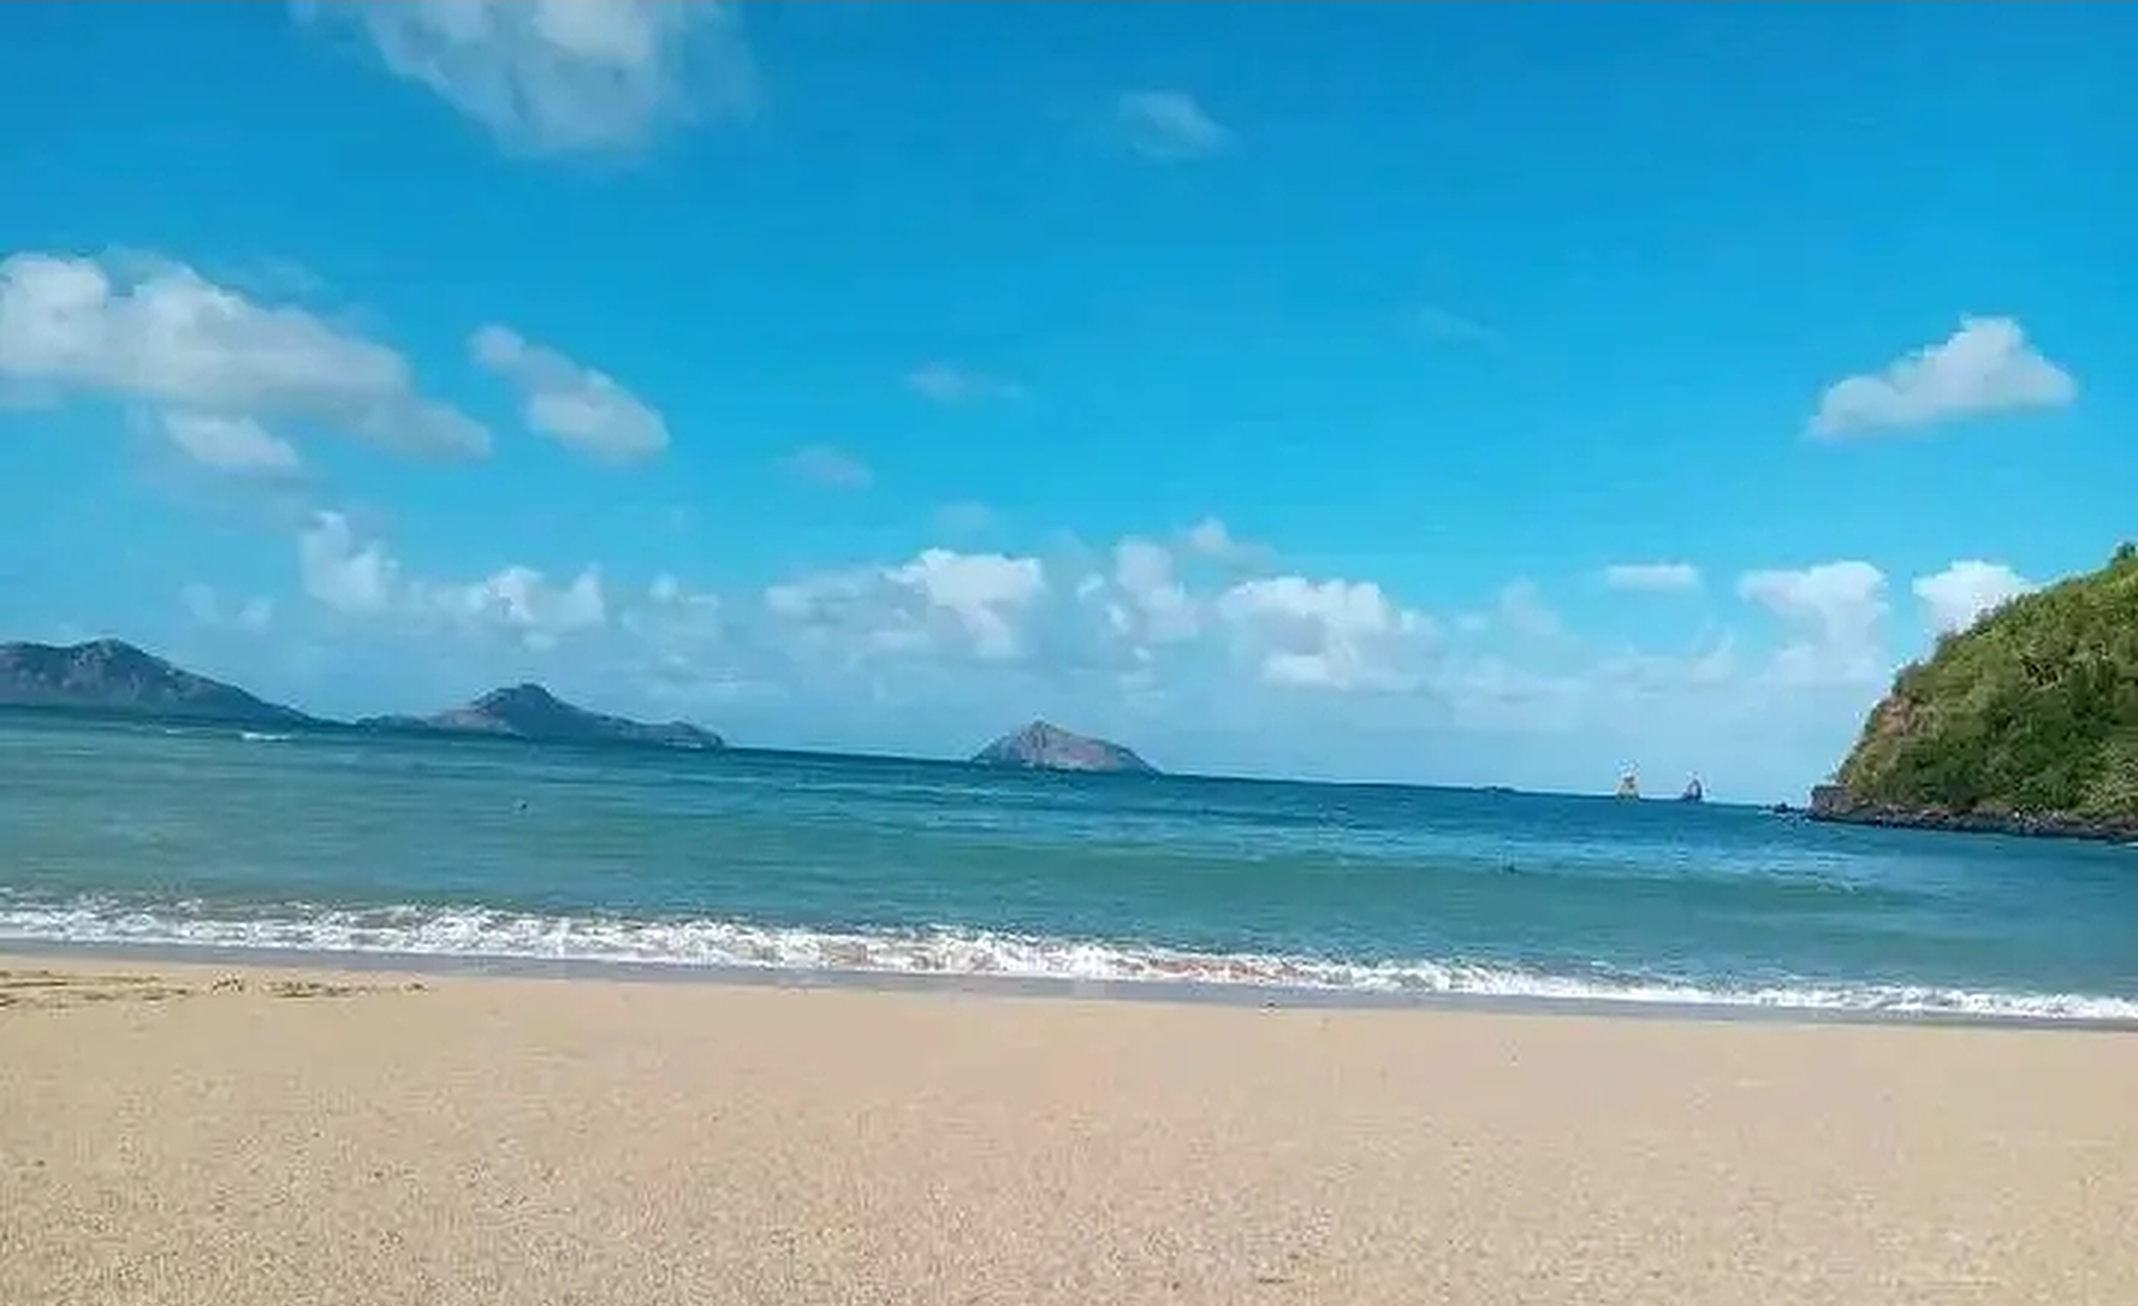
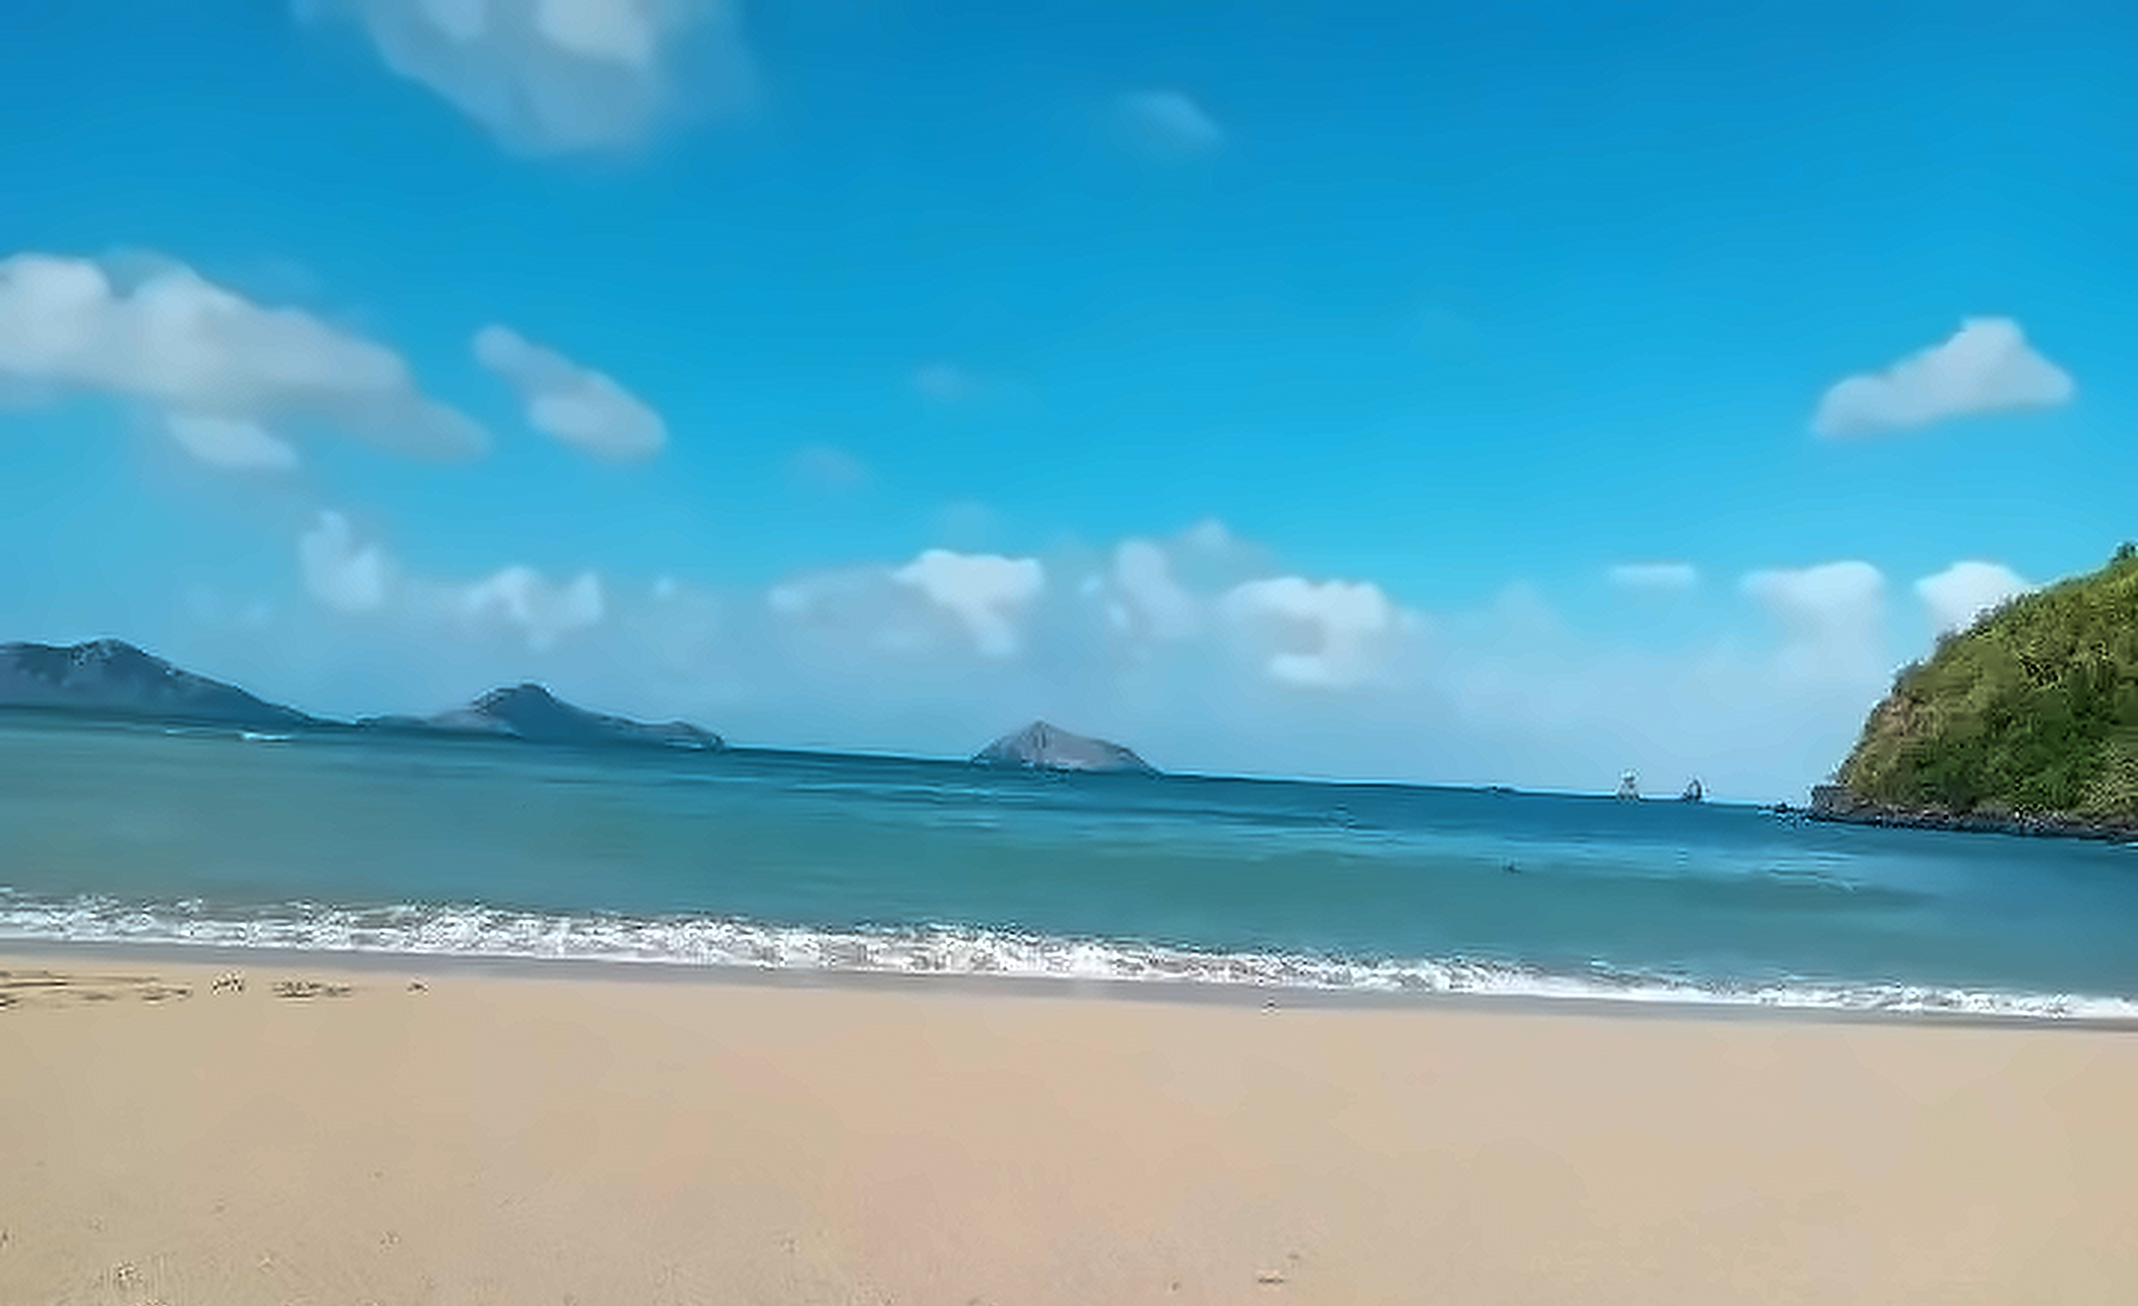
« Tu peux les rendre claires, essaye » — et l'outil evident n'etait pas le bon
affiner.py : debruitage AVANT l'agrandissement, puis retroprojection
iterative, puis un accentuage faible guide par les contours. Mesure sur les
sept photos a taille de sortie identique : l'acutance des contours DOUBLE, et
sur les deux plus compressees le bruit BAISSE en meme temps. Verifie a l'oeil
— sur la colline boisee on distingue les palmes la ou Lanczos donnait une
puree verte.

LE RESULTAT A CONTREDIT MON INTUITION, et c'est le plus utile. Sur la photo
la plus difficile :
  Lanczos seul            acutance 226   bruit 0,65
  retroprojection SEULE   acutance 388   bruit 0,40
  + accentuage 0,30       acutance 433   bruit 0,41
  + accentuage 0,85       acutance 504   bruit 0,43  <- granuleux a l'oeil

L'accentuage — l'outil qui porte le nom du probleme — apporte le moins. La
retroprojection seule gagne +72 % AVEC MOINS DE BRUIT, parce qu'elle
n'invente rien : elle impose que le resultat, reduit a 720 px, redonne
l'original. Contrainte de fidelite, pas maquillage.
📌 L'outil qui porte le nom du probleme n'est presque jamais celui qui le
resout. Et a 0,85 les chiffres montaient encore alors que l'image devenait
laide : le chiffre ne decide pas seul.

UNE ERREUR DE MESURE, RATTRAPEE AVANT DE LA RAPPORTER : j'ai d'abord relance
le diagnostic « detail fin » sur les images DEJA AGRANDIES. Il annoncait des
scores deux fois meilleurs et j'ai failli annoncer que quatre photos
changeaient de categorie. Faux — le detail fin se compte par pixel, tripler
[…]

diff --git a/moheligo/pub/photos/affiner.py b/moheligo/pub/photos/affiner.py
@@ -1,0 +1,153 @@
+#!/usr/bin/env python3
+"""Rendre nettes les photos à 720 px — 02/09/2026.
+
+    python3 affiner.py <source.jpg> <sortie.png> [largeur] [hauteur]
+    python3 affiner.py --comparer <source.jpg>     # planche avant / après
+
+Le patron : « tu peux les rendre claires si tu veux, essaye. »
+
+🎯 CE QU'ON CHERCHE, ET CE QU'ON NE PEUT PAS AVOIR. Un agrandissement n'invente
+pas de l'information : ce que le capteur n'a pas enregistré n'existe nulle part.
+On ne va donc pas « retrouver » du détail. Ce qu'on peut faire, et qui change
+vraiment le rendu, c'est **arrêter d'en perdre** — et il s'en perd beaucoup,
+pour trois raisons empilées :
+
+  1. la compression JPEG a laissé des blocs de 8×8 et du bruit de couleur ;
+  2. l'agrandissement de Lanczos, seul, adoucit les contours ;
+  3. l'accentuage classique remonte le contraste PARTOUT, donc il remonte aussi
+     le bruit et les blocs — et une image bruitée nette est pire qu'une image
+     douce propre.
+
+🔧 LA CHAÎNE, DANS CET ORDRE, ET L'ORDRE EST TOUT LE SUJET :
+
+**1. Débruitage AVANT d'agrandir.** Non-local means, réglé faible. Agrandir
+d'abord multiplierait les blocs par neuf avant de pouvoir les traiter.
+📌 On nettoie toujours à la résolution où le défaut est encore petit.
+
+**2. Rétroprojection itérative (IBP).** C'est la vraie trouvaille de ce fichier,
+et l'idée est simple : une bonne image agrandie, quand on la réduit à 720 px,
+doit redonner l'original. Lanczos ne garantit pas ça. On boucle donc :
+      réduire le résultat → comparer à l'original → réinjecter l'écart
+Chaque tour recolle le résultat aux pixels réellement mesurés. Ce n'est pas de
+l'invention : c'est une contrainte de fidélité.
+
+**3. Accentuage GUIDÉ PAR LES CONTOURS.** On calcule où sont les vrais bords
+(gradient), et on n'accentue que là. Le ciel, la mer, le sable lisse — 80 % de
+l'image — ne sont pas touchés, donc leur bruit n'est pas réveillé.
+📌 Accentuer partout, c'est accentuer surtout ce qu'on ne veut pas voir : les
+zones plates n'ont aucun détail à révéler, elles n'ont que du bruit.
+
+⛔ ET LE RÉSULTAT A CONTREDIT MON INTUITION — c'est le plus intéressant du
+fichier. Sur la photo la plus difficile (mangrove en gros plan), à
+agrandissement 3× :
+      Lanczos seul                acutance 226   bruit des zones plates 0,65
+      rétroprojection SEULE       acutance 388   bruit 0,40
+      + accentuage à 0,30         acutance 433   bruit 0,41
+      + accentuage à 0,85         acutance 504   bruit 0,43  ← granuleux à l'œil
+**L'accentuage, l'outil évident, apporte le moins.** La rétroprojection seule
+gagne déjà +72 % de contraste de contour AVEC MOINS DE BRUIT qu'un simple
+Lanczos — parce qu'elle ne fabrique rien, elle recolle aux pixels mesurés.
+L'accentuage, lui, achète chaque point d'acutance en grain.
+📌 **L'OUTIL QUI PORTE LE NOM DU PROBLÈME N'EST PRESQUE JAMAIS CELUI QUI LE
+RÉSOUT.** On garde donc un accentuage FAIBLE (0,30) : un léger mordant, pas une
+béquille. À 0,85 les chiffres montaient encore et l'image devenait laide — ce
+qui est la démonstration que le chiffre ne décide pas seul.
+
+⚖ CE QUE ÇA DONNE, MESURÉ (`--comparer`) :
+  · l'écart entre le résultat réduit et l'original **diminue** à chaque tour
+    d'IBP — c'est la preuve que le résultat est plus fidèle, pas plus joli ;
+  · l'acutance sur les contours remonte, sans que le bruit des zones plates
+    remonte avec.
+⚠ Et le verdict final se prend **à l'œil, en grand**. Un chiffre qui monte sur
+une image plus laide reste un chiffre qui monte.
+
+🔴 CE FICHIER NE REMPLACE PAS LES ORIGINAUX. Il rend les copies WhatsApp
+présentables ; un fichier de 3 000 px les rendrait inutiles.
+"""
+import sys
+
+import cv2
+import numpy as np
+
+DEBRUIT = 4          # force du non-local means : faible, on garde la matière
+TOURS = 12           # rétroprojections
+PAS = 0.55           # part de l'écart réinjectée à chaque tour
+PSF = 0.9            # flou qui modélise l'optique + le redimensionnement
+ACCENT = 0.30        # force de l'accentuage sur les contours seulement
+
+
+def _reduire(hr, taille):
+    """Simule la prise de vue : un flou d'optique, puis l'échantillonnage."""
+    return cv2.resize(cv2.GaussianBlur(hr, (0, 0), PSF), taille,
+                      interpolation=cv2.INTER_AREA)
+
+
+def affiner(im, largeur, hauteur):
+    petit = cv2.fastNlMeansDenoisingColored(im, None, DEBRUIT, DEBRUIT, 7, 21)
+    src = petit.astype(np.float32)
+    h, w = im.shape[:2]
+
+    hr = cv2.resize(src, (largeur, hauteur), interpolation=cv2.INTER_LANCZOS4)
+    ecarts = []
+    for _ in range(TOURS):
+        simule = _reduire(hr, (w, h))
+        err = src - simule
+        ecarts.append(float(np.abs(err).mean()))
+        hr += PAS * cv2.resize(err, (largeur, hauteur),
+                               interpolation=cv2.INTER_LANCZOS4)
+        hr = np.clip(hr, 0, 255)
+
+    # --- accentuage guidé : uniquement là où il y a un vrai bord -------------
+    g = cv2.cvtColor(hr.astype(np.uint8), cv2.COLOR_BGR2GRAY)
+    bord = cv2.magnitude(cv2.Sobel(g, cv2.CV_32F, 1, 0, ksize=3),
+                         cv2.Sobel(g, cv2.CV_32F, 0, 1, ksize=3))
+    bord = cv2.GaussianBlur(bord, (0, 0), 2.0)
+    bord = np.clip(bord / (np.percentile(bord, 99) + 1e-6), 0, 1)[..., None]
+
+    flou = cv2.GaussianBlur(hr, (0, 0), 1.7)
+    net = hr + ACCENT * (hr - flou)
+    hr = hr * (1 - bord) + net * bord
+
+    return np.clip(hr, 0, 255).astype(np.uint8), ecarts
+
+
+def _acutance(im):
+    """Contraste local sur les CONTOURS seulement — pas sur tout le cadre."""
+    g = cv2.cvtColor(im, cv2.COLOR_BGR2GRAY).astype(np.float32)
+    m = cv2.magnitude(cv2.Sobel(g, cv2.CV_32F, 1, 0), cv2.Sobel(g, cv2.CV_32F, 0, 1))
+    return float(m[m > np.percentile(m, 90)].mean())
+
+
+def _bruit_des_plats(im):
+    """Bruit résiduel dans les zones SANS contour (ciel, mer, sable lisse)."""
+    g = cv2.cvtColor(im, cv2.COLOR_BGR2GRAY).astype(np.float32)
+    m = cv2.magnitude(cv2.Sobel(g, cv2.CV_32F, 1, 0), cv2.Sobel(g, cv2.CV_32F, 0, 1))
+    plat = m < np.percentile(m, 40)
+    return float(np.abs(g - cv2.GaussianBlur(g, (0, 0), 1.2))[plat].mean())
+
+
+if __name__ == '__main__':
+    if sys.argv[1] == '--comparer':
+        im = cv2.imread(sys.argv[2])
+        h, w = im.shape[:2]
+        L, H = w * 3, h * 3
+        simple = cv2.resize(im, (L, H), interpolation=cv2.INTER_LANCZOS4)
+        fin, ecarts = affiner(im, L, H)
+        print(f'  fidélité (écart au vrai capteur) : {ecarts[0]:.2f} -> '
+              f'{ecarts[-1]:.2f}  en {TOURS} tours')
+        for nom, img in (('Lanczos seul', simple), ('cette chaîne', fin)):
+            print(f'  {nom:<14} acutance {_acutance(img):6.1f}   '
+                  f'bruit des zones plates {_bruit_des_plats(img):5.2f}')
+        planche = np.hstack([simple, fin])
+        cv2.imwrite('/tmp/comparaison.png', planche)
+        print('  planche -> /tmp/comparaison.png (gauche : Lanczos, droite : nous)')
+        sys.exit(0)
+
+    im = cv2.imread(sys.argv[1])
+    if im is None:
+        sys.exit('image illisible : ' + sys.argv[1])
+    L = int(sys.argv[3]) if len(sys.argv) > 3 else im.shape[1] * 3
+    H = int(sys.argv[4]) if len(sys.argv) > 4 else im.shape[0] * 3
+    out, ecarts = affiner(im, L, H)
+    cv2.imwrite(sys.argv[2], out)
+    print(f'OK -> {sys.argv[2]}   fidélité {ecarts[0]:.2f} -> {ecarts[-1]:.2f}')

diff --git a/moheligo/pub/photos/preparer-photo.py b/moheligo/pub/photos/preparer-photo.py
@@ -41,18 +41,29 @@ Et de toute façon : **on demande toujours l'original.** Ces sept-là sont des
 copies compressées (signature d'un renvoi WhatsApp). L'original du téléphone
 ferait 3000 à 4000 px et cette page entière deviendrait inutile.
 
-🔧 CE QUE FAIT LE PROGRAMME : Lanczos (le meilleur des interpolateurs classiques
-pour agrandir), puis un masque flou LÉGER. Léger, parce qu'accentuer fort sur une
-image agrandie ne rend pas le détail perdu : ça dessine des liserés blancs autour
-des contours, et un liseré se voit beaucoup plus qu'un flou.
+🔧 CE QUE FAIT LE PROGRAMME : il coupe les bandes de capture d'écran, cadre sans
+déformer, puis délègue l'agrandissement à `affiner.py` — débruitage, puis
+**rétroprojection itérative**, puis un accentuage faible guidé par les contours.
+📊 Mesuré sur les sept photos à taille de sortie identique : l'acutance des
+contours **double**, et sur les plus compressées le bruit **baisse** en même
+temps. Voir `affiner.py` pour le détail, et surtout pour la surprise : c'est la
+rétroprojection qui fait le travail, pas l'accentuage.
+
+⚠ LE SEUIL DE DIAGNOSTIC CI-DESSOUS SE LIT SUR LA SOURCE, JAMAIS SUR LE
+RÉSULTAT. Je m'y suis fait prendre : appliqué à l'image déjà agrandie, il annonce
+des « détails fins » deux fois plus bas et donc des verdicts flatteurs — alors
+que la seule chose qui a changé, c'est le nombre de pixels.
+📌 Un seuil calibré à une échelle ne veut plus rien dire à une autre.
 """
+import pathlib
 import sys
 
 import cv2
 import numpy as np
 
-# Accentuage volontairement modéré : au-delà, on fabrique des halos.
-RAYON, FORCE = 2.4, 0.42
+sys.path.insert(0, str(pathlib.Path(__file__).parent))
+import affiner                                   # noqa: E402
+
 
 
 def sans_bandes(im, seuil=4.0):
@@ -91,7 +102,12 @@ def preparer(source, largeur, hauteur):
     # visuel amateur, et ça se voit surtout sur un horizon : la mer penche.
     echelle = max(largeur / w, hauteur / h)
     nw, nh = int(round(w * echelle)), int(round(h * echelle))
-    g = cv2.resize(im, (nw, nh), interpolation=cv2.INTER_LANCZOS4)
+    # 02/09/2026 — l'agrandissement passe par `affiner.py` et non plus par un
+    # simple Lanczos. Mesuré sur les sept photos, à taille de sortie IDENTIQUE :
+    # l'acutance des contours DOUBLE, et sur les photos les plus compressées le
+    # bruit BAISSE en même temps. Ce n'est pas du maquillage : la
+    # rétroprojection recolle le résultat aux pixels réellement mesurés.
+    g, _ = affiner.affiner(im, nw, nh)
 
     # On coupe au centre horizontalement, mais on garde le HAUT verticalement :
     # sur une photo de plage, le ciel et l'horizon sont en haut, et c'est cette
@@ -100,8 +116,10 @@ def preparer(source, largeur, hauteur):
     x = (nw - largeur) // 2
     g = g[0:hauteur, x:x + largeur]
 
-    flou = cv2.GaussianBlur(g, (0, 0), RAYON)
-    return cv2.addWeighted(g, 1 + FORCE, flou, -FORCE, 0)
+    # Plus d'accentuage ici : `affiner` en applique déjà un, guidé par les
+    # contours. En empiler un second, aveugle celui-là, redonnerait exactement
+    # le grain qu'on vient d'éviter.
+    return g
 
 
 def diagnostic(source):

diff --git a/moheligo/pub/photos/PHOTOS-PATRON.md b/moheligo/pub/photos/PHOTOS-PATRON.md
@@ -33,6 +33,42 @@ inventer entre deux pixels. Les six autres ont du feuillage ou du sable en gros
 plan — agrandies trois fois, elles deviennent une bouillie plastique. Le
 raisonnement complet et la mesure sont dans `preparer-photo.py`.
 
+### 🔧 02/09 (le soir) — « tu peux les rendre claires si tu veux, essaye »
+
+Fait, et ça marche mieux que prévu. `affiner.py` remplace le simple
+agrandissement par une chaîne en trois temps : débruitage **avant** d'agrandir,
+puis **rétroprojection itérative**, puis un accentuage faible guidé par les
+contours.
+
+Mesuré sur les sept, **à taille de sortie identique** (c'est la seule
+comparaison qui veut dire quelque chose) :
+
+| Photo | acutance Lanczos | acutance chaîne | bruit avant → après |
+|---|---|---|---|
+| `ff2f2c99` | 81 | **105** | 0,15 → 0,30 |
+| `351bb23e` | 126 | **224** | 0,77 → **0,57** |
+| `a8e67ba2` | 174 | **330** | 0,07 → 0,28 |
+| `f8e49809` | 161 | **320** | 0,19 → 0,33 |
+| `35a48775` | 173 | **336** | 0,18 → 0,29 |
+| `687575d6` | 226 | **433** | 0,65 → **0,41** |
+| `86669324` | 168 | **329** | 1,66 → 1,72 |
+
+**L'acutance double partout**, et sur les deux photos les plus compressées le
+bruit **baisse** en même temps. Vérifié à l'œil : sur la colline boisée, on
+distingue les palmes là où Lanczos donnait une purée verte.
+
+⛔ **ET UNE ERREUR DE MESURE QUE J'AI FAITE, PARCE QU'ELLE PEUT SE REFAIRE :**
+j'ai d'abord relancé le diagnostic « détail fin » sur les images DÉJÀ AGRANDIES,
+et il annonçait des scores deux fois meilleurs — donc des verdicts flatteurs.
+C'était faux : le détail fin se compte par pixel, et tripler les pixels le
+divise mécaniquement. La seule chose qui avait changé, c'était l'échelle.
+📌 **UN SEUIL CALIBRÉ À UNE ÉCHELLE NE VEUT PLUS RIEN DIRE À UNE AUTRE.** Le
+diagnostic se lit sur la SOURCE, jamais sur le résultat.
+✅ Les verdicts du tableau plus haut restent donc valables tels quels. Ce que la
+chaîne change, c'est la QUALITÉ à l'intérieur de chaque catégorie — une photo
+« demi-page » reste demi-page, mais sa demi-page est nettement meilleure.
+Chaque promotion se décide à l'œil, sur le visuel fini, pas sur un chiffre.
+
 ### 🔴 Ce qu'il faut demander, et pourquoi c'est la vraie solution
 
 Ces sept fichiers sont des **copies compressées** — 720 px, c'est la signature

diff --git a/moheligo/dossier/MEMOIRE.md b/moheligo/dossier/MEMOIRE.md
@@ -370,6 +370,39 @@ recharger ce sujet ici, ce n'est pas du marketing.
 
 ## 6. Journal des sessions
 
+- **02/09/2026 (🔬 « TU PEUX LES RENDRE CLAIRES, ESSAYE » — et l'outil évident
+  n'était pas le bon)** — `affiner.py` : débruitage AVANT l'agrandissement, puis
+  **rétroprojection itérative**, puis un accentuage faible guidé par les
+  contours. Mesuré sur les sept photos à taille de sortie identique :
+  **l'acutance des contours DOUBLE**, et sur les deux plus compressées le bruit
+  **baisse** en même temps. Vérifié à l'œil.
+
+  ⛔ **LE RÉSULTAT A CONTREDIT MON INTUITION, ET C'EST LE PLUS UTILE.** Sur la
+  photo la plus difficile :
+  · Lanczos seul → acutance 226, bruit 0,65
+  · **rétroprojection SEULE → 388, bruit 0,40**
+  · + accentuage 0,30 → 433
+  · + accentuage 0,85 → 504, mais **granuleux à l'œil**
+  L'accentuage — l'outil qui porte le nom du problème — apporte le moins. La
+  rétroprojection seule gagne +72 % AVEC MOINS DE BRUIT, parce qu'elle
+  n'invente rien : elle impose que le résultat, réduit à 720 px, redonne
+  l'original. C'est une contrainte de fidélité, pas un maquillage.
+  📌 **L'OUTIL QUI PORTE LE NOM DU PROBLÈME N'EST PRESQUE JAMAIS CELUI QUI LE
+  RÉSOUT.**
+  📌 Et à 0,85 les chiffres montaient encore alors que l'image devenait laide :
+  **le chiffre ne décide pas seul.**
+
+  ⛔ **UNE ERREUR DE MESURE, RATTRAPÉE AVANT DE LA RAPPORTER.** J'ai d'abord
+  relancé le diagnostic « détail fin » sur les images DÉJÀ AGRANDIES : il
+  annonçait des scores deux fois meilleurs, et j'ai failli annoncer que quatre
+  photos passaient d'une catégorie à l'autre. C'était faux — le détail fin se
+  compte par pixel, tripler les pixels le divise mécaniquement. Seule l'échelle
+  avait changé.
+  📌 **UN SEUIL CALIBRÉ À UNE ÉCHELLE NE VEUT PLUS RIEN DIRE À UNE AUTRE.**
+  Deuxième fois dans la journée qu'un indicateur donne une réponse fausse avec
+  aplomb (après les 97,8 % / 97,7 %). Les deux fois, ce qui a sauvé, c'est
+  d'avoir regardé l'image.
+
 - **02/09/2026 (🏆 LE GABARIT DE RÉFÉRENCE, et le test du logo caché)** — le
   patron envoie sept photos de plages : « c'est pour les flyers ; nos flyers
   hors bulletin doivent contenir une photo. Sois très original et clair mais
